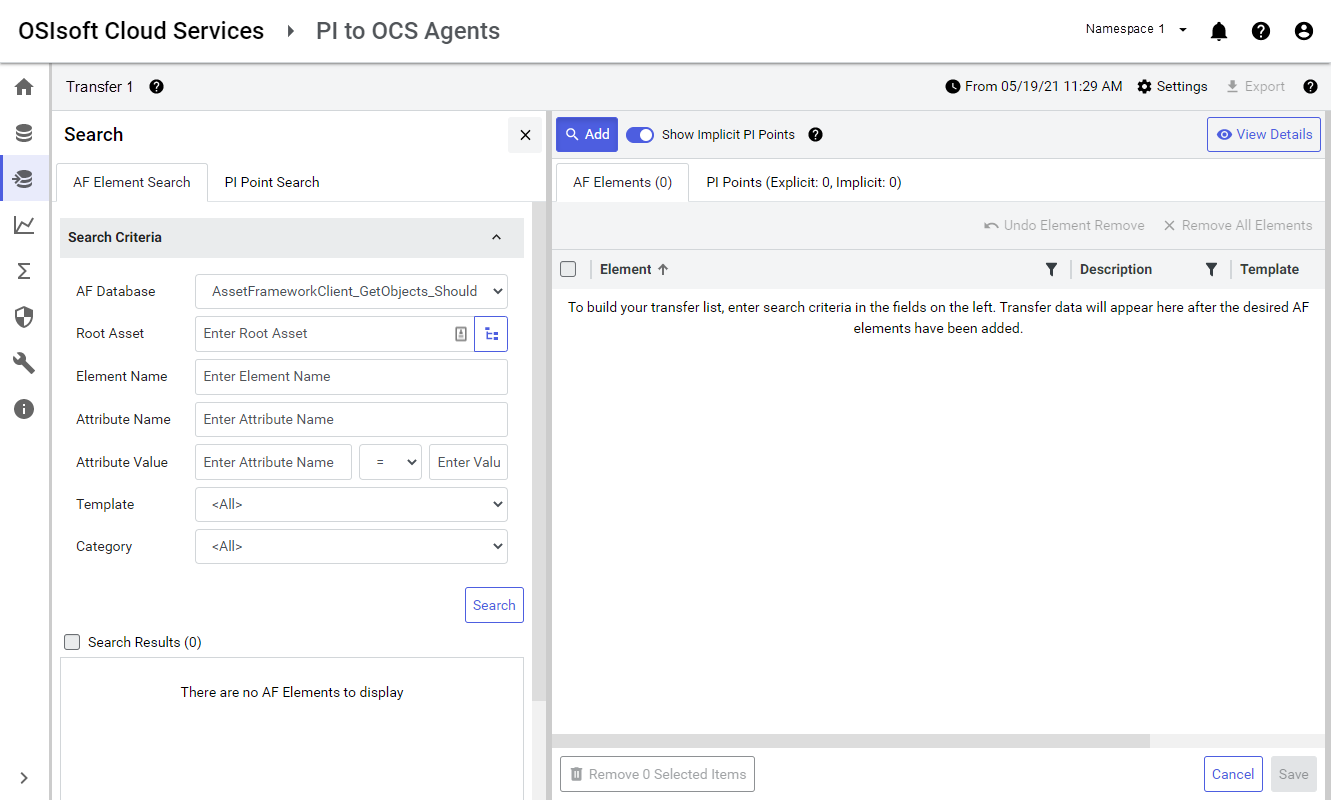
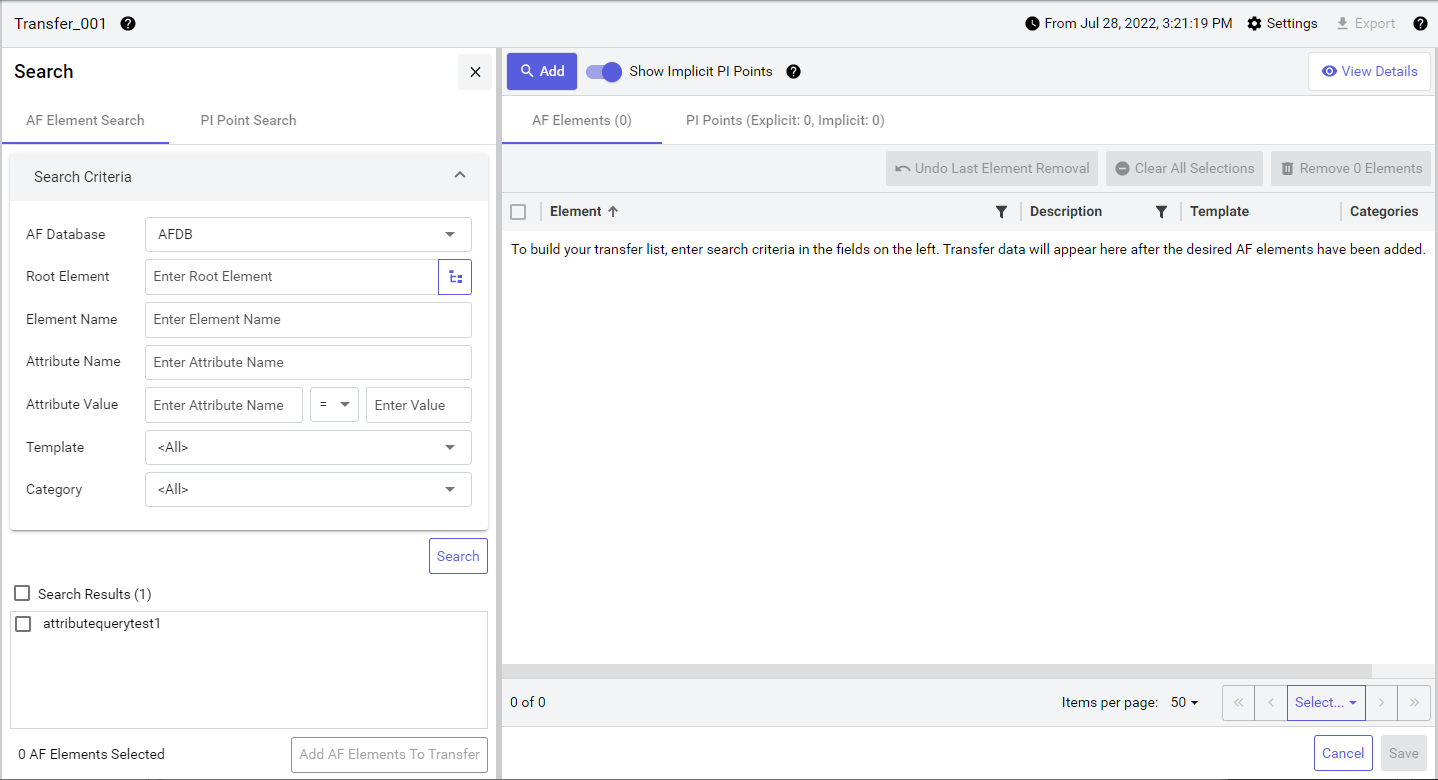
remove transfer update

diff --git a/content/add-organize-data/collect-data/connectors/pi-to-ocs/pi-to-ocs-data-transfers/transfer-data-to-ocs.md b/content/add-organize-data/collect-data/connectors/pi-to-ocs/pi-to-ocs-data-transfers/transfer-data-to-ocs.md
@@ -45,7 +45,7 @@ To name the data transfer:
 
 1. In the `Manage Agent` tab, select **Create Transfer**.
 
-   The `Transfer Setting` window opens.
+   The `Transfer Settings` window opens.
 
    ![](../../images/transfer-settings.png)
    
@@ -77,25 +77,25 @@ To name the data transfer:
     | SourceTag | X | X |  |  |
     | Step | X | X |  |  |
 
-1. (Optional) To have streams and assets automatically removed from the transfer when their corresponding PI points and AF elements are removed, select the **Automatically remove Streams and Assets** option. 
+1. (Optional) To have streams and assets automatically removed from the transfer when their corresponding PI points and AF elements are removed, select the **Automatically delete Streams and Assets from the cloud** option. 
 
 1. Select **Ok**.
 
    The transfer is created and the `Transfer` page opens.
 
-**Note:** To modify the transfer settings, select **Settings** to access the `Transfer Setting` window and modify the name, description, historical start and end times, and data privacy settings as needed.
+**Note:** To modify the transfer settings, select **Settings** to access the `Transfer Settings` window and modify the name, description, historical start and end times, and data privacy settings as needed.
 
 ## Build an AF elements transfer list
 
 After naming the transfer, build an AF elements transfer list by setting query criteria and then selecting AF elements. You can narrow your search by filtering by element name, asset group, attribute name/value, template, and category. A corresponding asset is created for every AF element in your transfer. Static AF element attributes become asset properties. 
 
-To build an AF element
+To build an AF element:
 
 1. On the `Transfer` page, select the source AF database to search from the **AF Database** dropdown list.
 
    ![Transfer page](../../images/transfer-win.png)
 
-1. (Optional) Select **Root Asset**.
+1. (Optional) Select **Root Element**.
 
 1. (Optional) In the `Select Root Element` window, select the plus buttons to drill down to the root asset in the AF database hierarchy, select a root asset, then choose **Select**. <!-- AF 11/15/21 UGH! I hate "select **Select**". Makes me want to use click. -->
 
@@ -284,5 +284,5 @@ To start a data transfer:
     
 1. (Optional) To stop a transfer, select **Stop Transfer**, then select **Stop**.
 
-1. (Optional) To remove a transfer, select **Remove Transfer**, then select **Remove**.
+1. (Optional) To remove a transfer, select **Remove Transfer**, select the **Delete Streams and Assets from the cloud** option if applicable, then select **Remove**.
  

diff --git a/content/add-organize-data/collect-data/connectors/pi-to-ocs/pi-to-ocs-data-transfers/edit-transfer.md b/content/add-organize-data/collect-data/connectors/pi-to-ocs/pi-to-ocs-data-transfers/edit-transfer.md
@@ -46,7 +46,7 @@ To edit an existing transfer:
     
     * To change the transfer's data privacy settings, select one of the **Stream Metadata Replication Policy** options.  
 
-    * To change whether streams or assets or removed automatically, select or deselect the **Automatically remove Streams and Assets** option.
+    * To change whether streams or assets are removed automatically, select or deselect the **Automatically delete Streams and Assets from the cloud** option.
 
 1. After transfer edits are done, select **Save** to retain these changes and return to the `PI to OCS Agents` window.
 
